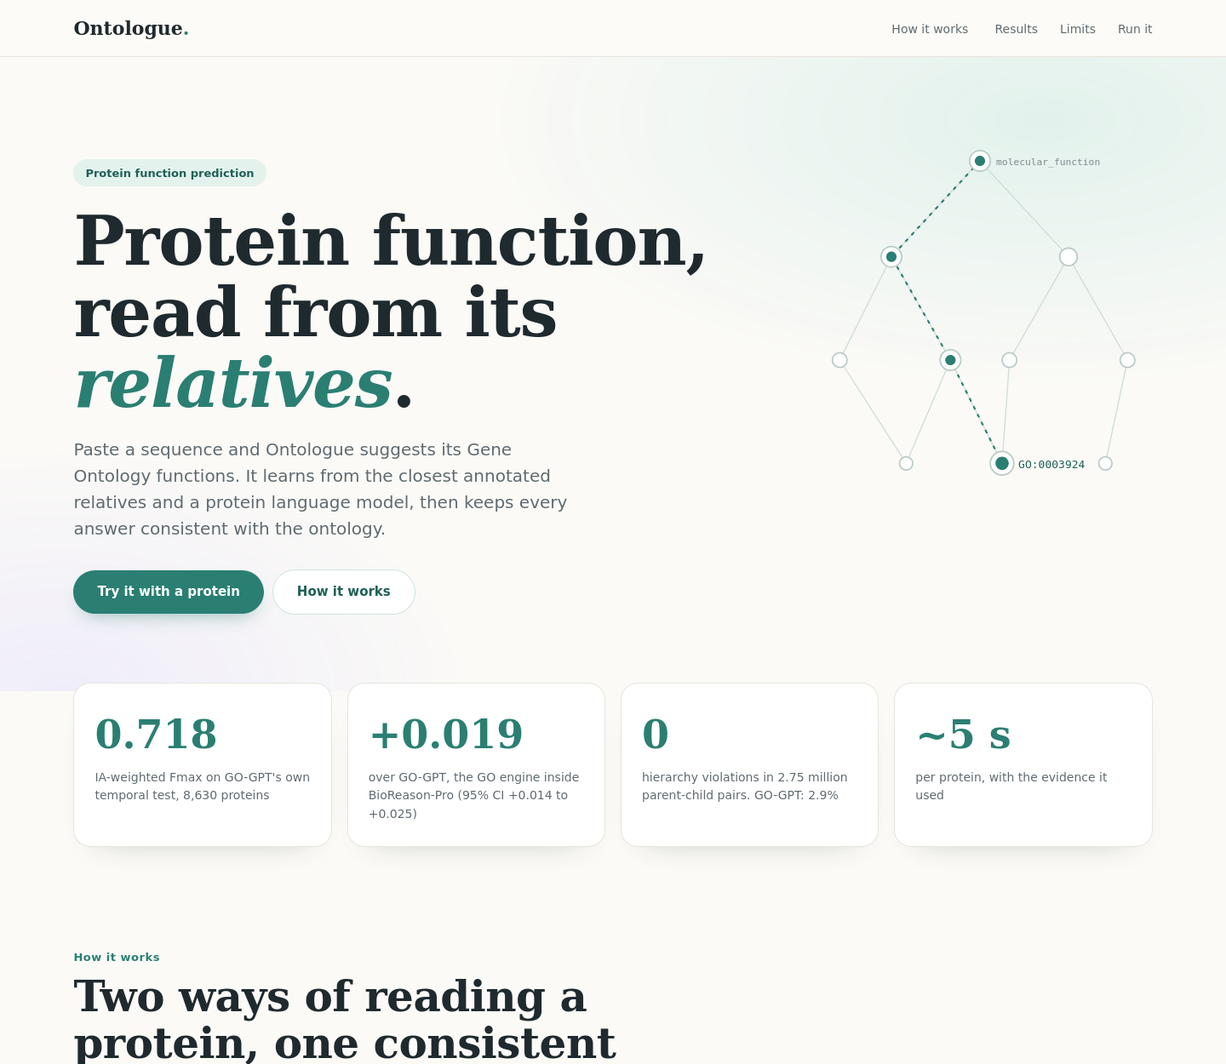
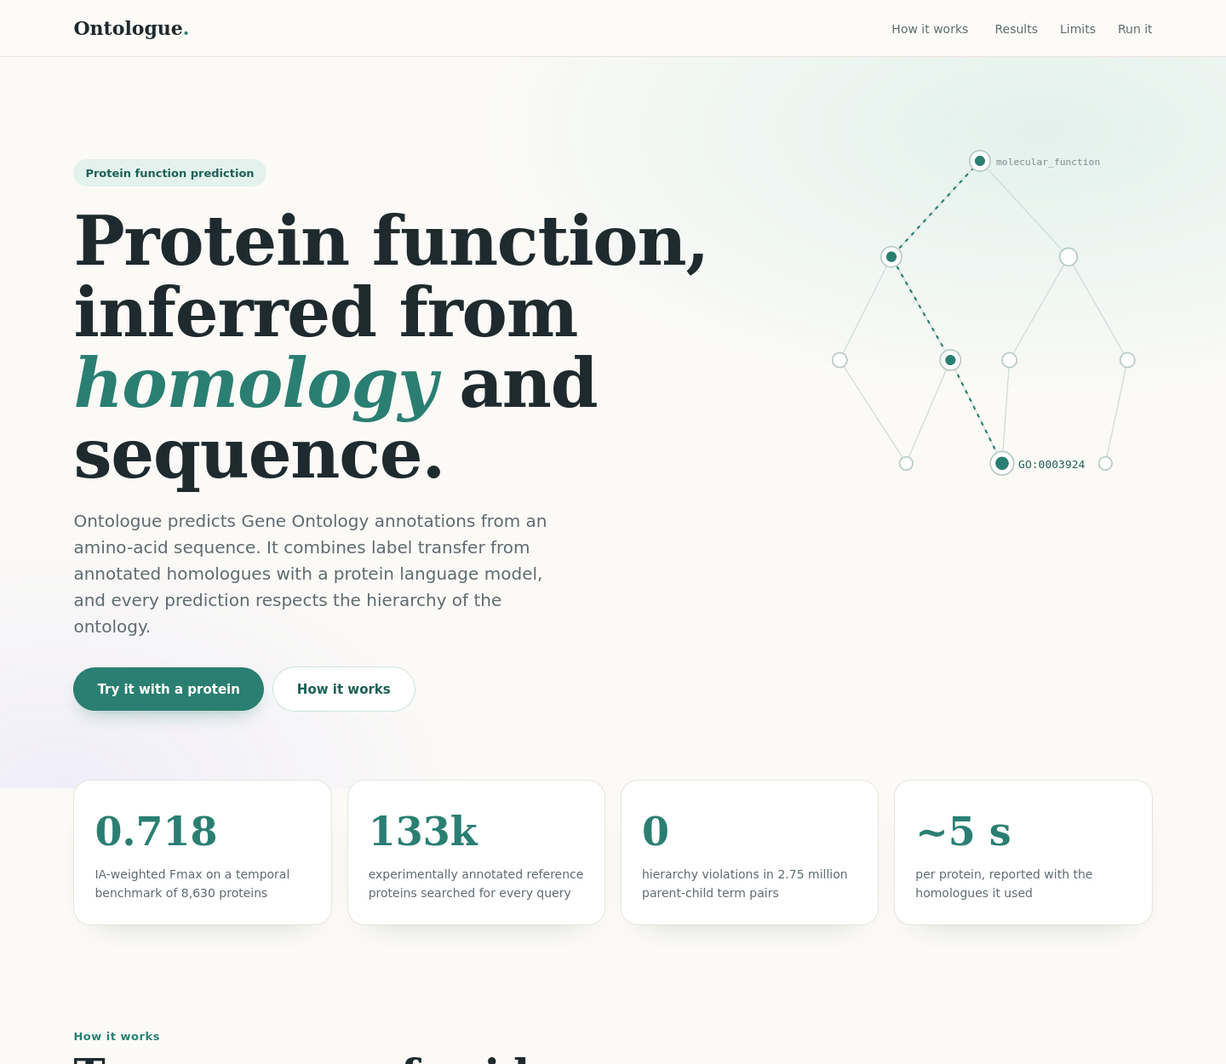
Ontologue: scientific headline, illustrated step-by-step pipeline with plain-English explanations, GO-GPT only in comparisons, no footer

diff --git a/src/cafa6/webapp.py b/src/cafa6/webapp.py
@@ -138,6 +138,37 @@ margin-right:8px}.bar span{display:block;height:9px;border-radius:99px;backgroun
 details summary{cursor:pointer;font-size:13px;color:var(--teal-d)}.dl{font-weight:600}
 @media (max-width:900px){.stats{grid-template-columns:repeat(2,1fr)}.cards,.versus{grid-template-columns:1fr}
 .hero .helix{opacity:.25;width:90vw}.cta.ghost{margin:10px 0 0}}
+.steps{display:flex;flex-direction:column;align-items:stretch;gap:0}
+.step{background:#fff;border:1px solid var(--line);border-radius:22px;padding:24px 26px;display:grid;
+grid-template-columns:260px 1fr;gap:26px;align-items:center;box-shadow:0 20px 44px -36px rgba(31,42,46,.35)}
+.step .art svg{width:100%;height:auto;display:block}.step h3{font-family:var(--serif);font-weight:600;font-size:22px;
+margin:4px 0 8px}.step p{margin:0 0 8px;color:var(--muted);font-size:15px}.step p.tech{font-size:12.5px;color:#7d8a8e;
+border-top:1px dashed var(--line);padding-top:8px;margin-top:10px}
+.stag{display:inline-block;font-size:12px;font-weight:700;color:var(--teal-d);background:var(--mint);padding:3px 10px;
+border-radius:999px}
+.step.input,.step.output{display:block}.step.input .stag,.step.output .stag{margin-bottom:12px}
+.pair{display:grid;grid-template-columns:1fr 1fr;gap:20px}.pair .step{grid-template-columns:1fr;gap:12px}
+.pair .step .art{max-width:280px}
+.pair .step:nth-child(2) .stag{background:var(--lav);color:#4b47a3}
+.step.wide:nth-of-type(1) .stag{background:var(--peach)}
+.seqbox{font-family:ui-monospace,Menlo,Consolas,monospace;font-size:13px;line-height:2.1;word-break:break-all;
+background:#fafaf8;border:1px solid var(--line);border-radius:14px;padding:12px 14px}
+.seqhdr{display:block;color:#7d8a8e;font-size:12px;margin-bottom:2px}.more{color:#7d8a8e;margin-left:6px}
+i.aa{font-style:normal;display:inline-block;width:1.3em;text-align:center;border-radius:5px;margin:0 1px}
+i.aa.h{background:#e4f2ee;color:#1f6156}i.aa.c{background:#fcefe5;color:#a2582a}i.aa.p{background:#ecebf8;color:#4b47a3}
+.legend{font-size:12.5px;color:var(--muted);margin:10px 0 0}
+.arrow1{width:2px;height:34px;background:linear-gradient(#cfdcd8,#9db3ad);margin:0 auto;position:relative}
+.arrow1:after{content:"";position:absolute;left:-5px;bottom:-2px;border:6px solid transparent;border-top-color:#9db3ad}
+.arrow2{display:grid;grid-template-columns:1fr 1fr;height:34px}.arrow2 span{width:2px;height:34px;margin:0 auto;
+background:linear-gradient(#cfdcd8,#9db3ad)}
+.obars{display:grid;gap:10px;max-width:720px}.obar{display:grid;grid-template-columns:minmax(180px,330px) 1fr 44px;gap:12px;
+align-items:center;font-size:14px}.obar .b{background:#f0eee9;border-radius:99px;height:10px}.obar .b span{display:block;
+height:10px;border-radius:99px}.obar.MF .b span{background:var(--mf)}.obar.BP .b span{background:var(--bp)}
+.obar.CC .b span{background:var(--cc)}.obar .v{font-weight:600;color:var(--ink)}
+i.dot{display:inline-block;width:10px;height:10px;border-radius:50%;vertical-align:middle}i.dot.MF{background:var(--mf)}
+i.dot.BP{background:var(--bp)}i.dot.CC{background:var(--cc)}
+@media (max-width:900px){.step{grid-template-columns:1fr}.pair{grid-template-columns:1fr}.arrow2{grid-template-columns:1fr}
+.arrow2 span:last-child{display:none}}
 """
 
 
@@ -150,15 +181,10 @@ def predictor() -> Predictor:
 NAV = f"""<nav><a class="logo" href="/">{BRAND}<b>.</b></a><div class="links"><a href="/#how">How it works</a>
 <a href="/#results">Results</a><a href="/#limits">Limits</a><a href="/#run">Run it</a></div></nav>"""
 
-FOOTER = f"""<footer><b>{BRAND}</b> is the serving name of the HiGO-R2 research pipeline: frozen ESM2-35M with
-per-term attention (HiGO head), identity-sharpened kNN label transfer over 133,054 GO-GPT train + val references,
-a per-term refiner fitted on a temporal validation set, and GO true-path closure. Benchmark: GO-GPT temporal test,
-8,630 proteins, IA-weighted Fmax, CAFA evaluator (prop=max). Research software; check predictions against the nearest
-references shown with every result. Built on ESM2 (MIT), UniProt and Gene Ontology data (CC BY 4.0), DIAMOND (GPL-3.0).
-</footer>"""
+FOOTER = ""
 
 
-def page(body: str, title: str = f"{BRAND} | protein function, read from its relatives") -> HTMLResponse:
+def page(body: str, title: str = f"{BRAND} | protein function from homology and sequence") -> HTMLResponse:
     return HTMLResponse(f"""<!doctype html><html lang="en"><head><meta charset="utf-8"><title>{html.escape(title)}</title>
 <meta name="viewport" content="width=device-width,initial-scale=1"><style>{CSS}</style></head><body>
 {NAV}<main class="res">{body}</main>{FOOTER}</body></html>""")
@@ -183,7 +209,7 @@ onclick="document.getElementById('fasta').value='{example_js}'">Load an example 
 placeholder="other taxon id" aria-label="other NCBI taxon id">
 <button class="cta" type="submit">Predict functions</button></div>
 <p class="hint">About 5 seconds per protein, most of it the search over 133,054 annotated references. Every result
-lists the relatives it was read from.</p></form></div>"""
+lists the homologues it drew on.</p></form></div>"""
 
 
 HERO_ART = """<svg class="helix" viewBox="0 0 600 600" aria-hidden="true">
@@ -202,104 +228,165 @@ M260 330 L200 470 M260 330 L330 470 M340 330 L330 470 M500 330 L470 470 M110 330
 <text x="322" y="66" fill="#7d8a8e" font-size="13" font-family="ui-monospace,Menlo,monospace">molecular_function</text>
 </svg>"""
 
-PIPELINE_SVG = """<svg viewBox="0 0 1260 380" role="img" aria-labelledby="dgT dgD">
-<title id="dgT">Ontologue pipeline</title>
-<desc id="dgD">A protein sequence goes two ways: a DIAMOND search reads the GO terms of its closest annotated relatives
-(sharpened kNN), and a protein language model with one attention query per GO term reads the residues. A per-term
-refiner fitted on future-dated annotations combines both, the Gene Ontology closure makes parents score at least as
-high as children, and the output is scored GO terms for molecular function, biological process and cellular
-component.</desc>
-<defs><marker id="ar" viewBox="0 0 10 10" refX="9" refY="5" markerWidth="7" markerHeight="7" orient="auto">
-<path d="M0 0 L10 5 L0 10z" fill="#7d8a8e"/></marker></defs>
-<g fill="none" stroke="#9db3ad" stroke-width="2" marker-end="url(#ar)">
-<path class="flow" d="M170 190 C198 190 198 95 223 95"/><path class="flow" d="M170 190 C198 190 198 285 223 285"/>
-<path class="flow" d="M515 95 C542 95 542 190 568 190"/><path class="flow" d="M515 285 C542 285 542 190 568 190"/>
-<path class="flow" d="M770 190 L818 190"/><path class="flow" d="M1030 190 L1078 190"/></g>
-<g font-family="system-ui,Segoe UI,Roboto,Arial,sans-serif">
-<rect x="20" y="140" width="150" height="100" rx="20" fill="#ffffff" stroke="#dcd8cf" stroke-width="1.5"/>
-<text x="40" y="176" fill="#2a7f72" font-size="12" font-weight="700" letter-spacing="1.5">INPUT</text>
-<text x="40" y="202" fill="#1f2a2e" font-size="17" font-weight="800">Sequence</text>
-<text x="40" y="224" fill="#5f6b70" font-size="13">+ organism</text>
-<rect x="225" y="40" width="290" height="110" rx="20" fill="#e4f2ee"/>
-<text x="245" y="70" fill="#1f6156" font-size="12" font-weight="700" letter-spacing="1.5">01 RELATIVES</text>
-<text x="245" y="98" fill="#1f2a2e" font-size="17" font-weight="800">Sharpened kNN</text>
-<text x="245" y="120" fill="#5f6b70" font-size="13">DIAMOND over 133k annotated proteins</text>
-<text x="245" y="138" fill="#5f6b70" font-size="13">closest relatives weigh the most</text>
-<rect x="225" y="230" width="290" height="110" rx="20" fill="#ecebf8"/>
-<text x="245" y="260" fill="#4b47a3" font-size="12" font-weight="700" letter-spacing="1.5">02 LANGUAGE</text>
-<text x="245" y="288" fill="#1f2a2e" font-size="17" font-weight="800">ESM2 + HiGO head</text>
-<text x="245" y="310" fill="#5f6b70" font-size="13">7,901 GO-term queries attend</text>
-<text x="245" y="328" fill="#5f6b70" font-size="13">over every residue</text>
-<rect x="570" y="135" width="200" height="110" rx="20" fill="#fcefe5"/>
-<text x="590" y="165" fill="#a2582a" font-size="12" font-weight="700" letter-spacing="1.5">03 REFINER</text>
-<text x="590" y="193" fill="#1f2a2e" font-size="17" font-weight="800">Per-term fusion</text>
-<text x="590" y="215" fill="#5f6b70" font-size="13">fitted only on</text>
-<text x="590" y="233" fill="#5f6b70" font-size="13">future-dated labels</text>
-<rect x="820" y="135" width="210" height="110" rx="20" fill="#eef4f8"/>
-<text x="840" y="165" fill="#3b6a8a" font-size="12" font-weight="700" letter-spacing="1.5">04 ONTOLOGY</text>
-<text x="840" y="193" fill="#1f2a2e" font-size="17" font-weight="800">True-path closure</text>
-<text x="840" y="215" fill="#5f6b70" font-size="13">a parent never scores</text>
-<text x="840" y="233" fill="#5f6b70" font-size="13">below its child</text>
-<rect x="1080" y="120" width="170" height="140" rx="20" fill="#2a7f72"/>
-<text x="1098" y="152" fill="#cfeee6" font-size="12" font-weight="700" letter-spacing="1.5">OUTPUT</text>
-<text x="1098" y="180" fill="#ffffff" font-size="17" font-weight="900">GO terms</text>
-<circle cx="1104" cy="203" r="6" fill="#a9bdf3"/><text x="1116" y="208" fill="#ffffff" font-size="13">Molecular function</text>
-<circle cx="1104" cy="225" r="6" fill="#a8e6d3"/><text x="1116" y="230" fill="#ffffff" font-size="13">Biological process</text>
-<circle cx="1104" cy="247" r="6" fill="#f7c6a2"/><text x="1116" y="252" fill="#ffffff" font-size="13">Cellular component</text>
-</g></svg>"""
+
+
+SEQ_DEMO = "MTEYKLVVVGAGGVGKSALTIQLIQNHFVDEYDPTIEDSYRKQVVIDGETCLLDILDTAGQEEYSAMRDQYMRTGEGFLCVFAINNTKSFEDIHQYRE"
+
+
+def seq_chips(seq: str) -> str:
+    """Residues as coloured chips: hydrophobic, charged, polar/other."""
+    cls = {**{a: "h" for a in "AVILMFWC"}, **{a: "c" for a in "DEKRH"}}
+    return "".join(f'<i class="aa {cls.get(a, "p")}">{a}</i>' for a in seq)
+
+
+DOODLE_RELATIVES = """<svg viewBox="0 0 260 170" aria-hidden="true">
+<line x1="130" y1="88" x2="46" y2="40" stroke="#2a7f72" stroke-width="7" stroke-linecap="round"/>
+<line x1="130" y1="88" x2="222" y2="52" stroke="#2a7f72" stroke-width="4" stroke-linecap="round" opacity=".75"/>
+<line x1="130" y1="88" x2="200" y2="150" stroke="#2a7f72" stroke-width="1.6" stroke-linecap="round" opacity=".5"
+stroke-dasharray="4 4"/>
+<circle cx="130" cy="88" r="22" fill="#2a7f72"/><text x="130" y="92" text-anchor="middle" fill="#fff" font-size="11"
+font-weight="700">query</text>
+<circle cx="46" cy="40" r="17" fill="#e4f2ee" stroke="#2a7f72" stroke-width="2"/>
+<text x="46" y="44" text-anchor="middle" font-size="10" font-weight="700" fill="#1f6156">99%</text>
+<circle cx="222" cy="52" r="15" fill="#e4f2ee" stroke="#2a7f72" stroke-width="1.5"/>
+<text x="222" y="56" text-anchor="middle" font-size="10" font-weight="700" fill="#1f6156">78%</text>
+<circle cx="200" cy="150" r="12" fill="#f3f1ec" stroke="#b9cbc5" stroke-width="1.5"/>
+<text x="200" y="154" text-anchor="middle" font-size="9" fill="#5f6b70">41%</text>
+<text x="18" y="76" font-size="10" fill="#5f6b70">strong vote</text><text x="168" y="98" font-size="10"
+fill="#5f6b70">weaker</text><text x="132" y="160" font-size="10" fill="#5f6b70">faint</text></svg>"""
+
+DOODLE_LANGUAGE = """<svg viewBox="0 0 260 170" aria-hidden="true">
+<path d="M66 34 L40 118 L92 118 Z" fill="#ecebf8"/><path d="M186 34 L160 118 L212 118 Z" fill="#fcefe5"/>
+<rect x="28" y="16" width="76" height="22" rx="11" fill="#ecebf8"/><text x="66" y="31" text-anchor="middle"
+font-size="10" font-weight="700" fill="#4b47a3">GTP binding</text>
+<rect x="142" y="16" width="88" height="22" rx="11" fill="#fcefe5"/><text x="186" y="31" text-anchor="middle"
+font-size="10" font-weight="700" fill="#a2582a">membrane</text>
+<g font-size="10" font-weight="700" text-anchor="middle">
+<circle cx="22" cy="130" r="9" fill="#f3f1ec"/><circle cx="44" cy="130" r="9" fill="#a9a5e6"/>
+<circle cx="66" cy="130" r="9" fill="#a9a5e6"/><circle cx="88" cy="130" r="9" fill="#f3f1ec"/>
+<circle cx="110" cy="130" r="9" fill="#f3f1ec"/><circle cx="132" cy="130" r="9" fill="#f3f1ec"/>
+<circle cx="154" cy="130" r="9" fill="#f3f1ec"/><circle cx="176" cy="130" r="9" fill="#f7c6a2"/>
+<circle cx="198" cy="130" r="9" fill="#f7c6a2"/><circle cx="220" cy="130" r="9" fill="#f3f1ec"/>
+<circle cx="242" cy="130" r="9" fill="#f3f1ec"/></g>
+<text x="130" y="160" text-anchor="middle" font-size="10" fill="#5f6b70">each function looks at the residues it needs</text>
+</svg>"""
+
+DOODLE_FUSION = """<svg viewBox="0 0 260 170" aria-hidden="true">
+<path d="M130 40 L130 140" stroke="#9db3ad" stroke-width="3"/><path d="M104 146 L156 146" stroke="#9db3ad"
+stroke-width="5" stroke-linecap="round"/>
+<path d="M40 58 L220 38" stroke="#5f6b70" stroke-width="3" stroke-linecap="round"/>
+<circle cx="130" cy="48" r="6" fill="#5f6b70"/>
+<path d="M40 58 L22 96 L58 96 Z" fill="none" stroke="#9db3ad" stroke-width="1.5"/>
+<path d="M220 38 L202 76 L238 76 Z" fill="none" stroke="#9db3ad" stroke-width="1.5"/>
+<ellipse cx="40" cy="98" rx="26" ry="6" fill="#e4f2ee"/><ellipse cx="220" cy="78" rx="26" ry="6" fill="#ecebf8"/>
+<circle cx="40" cy="86" r="11" fill="#2a7f72"/><circle cx="220" cy="68" r="8" fill="#a9a5e6"/>
+<text x="40" y="122" text-anchor="middle" font-size="10" font-weight="700" fill="#1f6156">homologues</text>
+<text x="220" y="102" text-anchor="middle" font-size="10" font-weight="700" fill="#4b47a3">sequence</text>
+<text x="130" y="166" text-anchor="middle" font-size="10" fill="#5f6b70">the balance shifts with similarity</text>
+</svg>"""
+
+DOODLE_CLOSURE = """<svg viewBox="0 0 260 170" aria-hidden="true">
+<g font-size="11" font-weight="600">
+<rect x="58" y="10" width="144" height="30" rx="15" fill="#eef4f8"/><text x="130" y="30" text-anchor="middle"
+fill="#3b6a8a">catalytic activity 0.87</text>
+<rect x="50" y="68" width="160" height="30" rx="15" fill="#eef4f8"/><text x="130" y="88" text-anchor="middle"
+fill="#3b6a8a">hydrolase activity 0.87</text>
+<rect x="62" y="126" width="136" height="30" rx="15" fill="#2a7f72"/><text x="130" y="146" text-anchor="middle"
+fill="#fff">GTPase activity 0.80</text></g>
+<g stroke="#9db3ad" stroke-width="2" fill="none"><path d="M130 124 L130 102"/><path d="M124 108 L130 100 L136 108"/>
+<path d="M130 66 L130 44"/><path d="M124 50 L130 42 L136 50"/></g>
+<text x="222" y="92" font-size="10" fill="#5f6b70">implies</text><text x="222" y="40" font-size="10"
+fill="#5f6b70">implies</text></svg>"""
+
+
+def steps_html() -> str:
+    def bar(term, asp, v):
+        return (f'<div class="obar {asp}"><span class="t">{term}</span><span class="b"><span style="width:{v * 100:.0f}%">'
+                f'</span></span><span class="v">{v:.2f}</span></div>')
+    return f"""
+<div class="steps">
+<div class="step input"><div class="stag">Input</div>
+<div class="seqbox"><span class="seqhdr">&gt;example &nbsp;Homo sapiens (taxon 9606)</span>{seq_chips(SEQ_DEMO)}<span
+class="more">&hellip; 166 residues</span></div>
+<p class="legend"><i class="aa h">A</i> hydrophobic &nbsp; <i class="aa c">K</i> charged &nbsp; <i class="aa p">S</i>
+polar or other</p></div>
+<div class="arrow2"><span></span><span></span></div>
+<div class="pair">
+<div class="step"><div class="art">{DOODLE_RELATIVES}</div><div class="txt"><div class="stag">Step 1a</div>
+<h3>Look up related proteins</h3><p>We search 133,054 proteins whose functions are already known for ones with a
+similar sequence, and borrow their annotations. A near-identical protein gets a strong vote; a distant one barely
+counts.</p>
+<p class="tech">Identity-sharpened k-nearest-neighbour label transfer (DIAMOND, top 50 hits)</p></div></div>
+<div class="step"><div class="art">{DOODLE_LANGUAGE}</div><div class="txt"><div class="stag">Step 1b</div>
+<h3>Read the sequence itself</h3><p>A protein language model, trained on millions of natural sequences, reads every
+residue. Each of 7,901 functions then focuses on the stretch of residues that tells it the most.</p>
+<p class="tech">Frozen ESM2-35M encoder with one attention query per GO term (HiGO head)</p></div></div>
+</div>
+<div class="arrow1"></div>
+<div class="step wide"><div class="art">{DOODLE_FUSION}</div><div class="txt"><div class="stag">Step 2</div>
+<h3>Weigh the two kinds of evidence</h3><p>For each function separately, a small model decides how far to trust the
+related proteins and how far to trust the sequence reading. Close matches tip the balance toward borrowing; with no
+close match the sequence reading matters more. It was calibrated on annotations added after the training data was
+collected, so it learns how evidence holds up over time.</p>
+<p class="tech">Per-term nonlinear fusion fitted on a temporal validation set</p></div></div>
+<div class="arrow1"></div>
+<div class="step wide"><div class="art">{DOODLE_CLOSURE}</div><div class="txt"><div class="stag">Step 3</div>
+<h3>Keep the answer consistent</h3><p>Gene Ontology terms are nested: a GTPase is a kind of hydrolase, which is a kind
+of catalytic activity. Whenever a specific function is predicted, every broader function above it is scored at least
+as high, so the result never contradicts itself.</p>
+<p class="tech">True-path rule: max-propagation over is_a and part_of relations</p></div></div>
+<div class="arrow1"></div>
+<div class="step output"><div class="stag">Output</div><h3>Scored functions in all three ontologies</h3>
+<div class="obars">{bar("GTPase activity", "MF", 0.80)}{bar("small GTPase mediated signal transduction", "BP", 0.75)}
+{bar("plasma membrane", "CC", 0.63)}</div>
+<p class="legend"><i class="dot MF"></i> molecular function &nbsp; <i class="dot BP"></i> biological process &nbsp;
+<i class="dot CC"></i> cellular component. Values are the model's own scores for the example above.</p></div>
+</div>"""
 
 
 def landing_html() -> str:
     return f"""
 <header class="hero">{HERO_ART}
 <div class="kicker">Protein function prediction</div>
-<h1>Protein function, read from its <em>relatives</em>.</h1>
-<p class="lede">Paste a sequence and {BRAND} suggests its Gene Ontology functions. It learns from the closest
-annotated relatives and a protein language model, then keeps every answer consistent with the ontology.</p>
+<h1>Protein function, inferred from <em>homology</em> and sequence.</h1>
+<p class="lede">{BRAND} predicts Gene Ontology annotations from an amino-acid sequence. It combines label transfer
+from annotated homologues with a protein language model, and every prediction respects the hierarchy of the
+ontology.</p>
 <a class="cta" href="#run">Try it with a protein</a><a class="cta ghost" href="#how">How it works</a>
 </header>
 <div class="stats">
-<div><b>0.718</b><span>IA-weighted Fmax on GO-GPT's own temporal test, 8,630 proteins</span></div>
-<div><b>+0.019</b><span>over GO-GPT, the GO engine inside BioReason-Pro (95% CI +0.014 to +0.025)</span></div>
-<div><b>0</b><span>hierarchy violations in 2.75 million parent-child pairs. GO-GPT: 2.9%</span></div>
-<div><b>~5 s</b><span>per protein, with the evidence it used</span></div>
+<div><b>0.718</b><span>IA-weighted Fmax on a temporal benchmark of 8,630 proteins</span></div>
+<div><b>133k</b><span>experimentally annotated reference proteins searched for every query</span></div>
+<div><b>0</b><span>hierarchy violations in 2.75 million parent-child term pairs</span></div>
+<div><b>~5 s</b><span>per protein, reported with the homologues it used</span></div>
 </div>
 <section class="block" id="how"><div class="eyebrow">How it works</div>
-<h2>Two ways of reading a protein, one consistent answer</h2>
-<p class="sub">Most proteins have relatives that someone has already studied. {BRAND} finds them, trusts the closest
-ones most, and lets a language model fill the gaps, then keeps the answer consistent with the Gene Ontology.</p>
-<div class="diagram">{PIPELINE_SVG}</div></section>
-<section class="block" style="padding-top:0"><div class="cards">
-<article><div><div class="n">1</div><h3>Closer relatives count for more</h3>
-<p>A 99% identical relative is worth far more than a 60% one. Identity-sharpened label transfer weights each
-neighbour by how close it is, instead of counting them all alike.</p></div></article>
-<article><div><div class="n">2</div><h3>Each function looks at the sequence</h3>
-<p>Each of 7,901 GO terms has its own learned query that attends over the residues of a frozen ESM2 model, so
-every prediction comes with the residues behind it.</p></div></article>
-<article><div><div class="n">3</div><h3>Always consistent with the ontology</h3>
-<p>If a protein binds GTP, it binds a nucleotide. Every output is closed under the true-path rule, so a parent
-term never scores below its child.</p></div></article>
-</div></section>
+<h2>Two sources of evidence, one consistent annotation</h2>
+<p class="sub">Most proteins have homologues whose functions have been characterised. {BRAND} finds them, weights
+the closest most heavily, uses a protein language model where homology is weak, and keeps the result consistent
+with the Gene Ontology.</p>
+{steps_html()}</section>
+
 <section class="block soft" id="results"><div class="eyebrow">Results</div>
 <h2>Tested on annotations that came later</h2>
 <p class="sub">Every choice was fixed on a temporal validation set before the test set was opened. The test set holds
 annotations that appeared after the training cutoff, so the model is graded on functions nobody had recorded yet.</p>
 <div class="versus"><table class="vtable">
-<tr><th>GO-GPT temporal test</th><th>IA-weighted Fmax</th><th>S-min (lower is better)</th></tr>
+<tr><th>Temporal benchmark, 8,630 proteins</th><th>IA-weighted Fmax</th><th>S-min (lower is better)</th></tr>
 <tr class="hl"><td class="us">{BRAND}</td><td class="us">0.718</td><td class="us">7.56</td></tr>
 <tr><td>GO-GPT, ten samples</td><td>0.698</td><td>8.17</td></tr>
 <tr><td>GO-GPT, released beam</td><td>0.687</td><td>9.20</td></tr></table>
 <div class="limits"><h3>Checked carefully</h3>
-<p>51 of 56 paired comparisons against GO-GPT stay significant after Holm-Bonferroni correction, across Fmax,
-S-min and AUPR in all three ontologies. None of the significant differences favours GO-GPT.</p>
+<p>Differences were tested with paired protein-level resampling and corrected for multiple comparisons
+(Holm-Bonferroni) across Fmax, S-min and AUPR in all three ontologies.</p>
 <p>Biggest gains: <b>biological process +0.028</b>, molecular function +0.018, cellular component +0.012
 (IA-weighted Fmax).</p></div></div></section>
 <section class="block" id="limits"><div class="eyebrow">Know its limits</div>
-<h2>Most reliable when relatives exist</h2>
-<div class="versus"><p class="sub" style="margin:0">{BRAND}'s edge comes from reading relatives well. For a protein
-with no detectable relative, the language-model branch carries the prediction alone, and there GO-GPT is still ahead.
-Each result shows the identity of the closest reference, so you know which case you are in.</p>
-<table class="vtable"><tr><th>closest relative</th><th>{BRAND}</th><th>GO-GPT</th></tr>
+<h2>Most reliable when homologues exist</h2>
+<div class="versus"><p class="sub" style="margin:0">Accuracy depends on how close the nearest annotated homologue is.
+For a protein with no detectable homologue the language-model branch carries the prediction alone, and accuracy is
+markedly lower. Each result reports the identity of the closest reference, so you know which case applies.</p>
+<table class="vtable"><tr><th>identity of closest homologue</th><th>{BRAND}</th><th>GO-GPT (ten samples)</th></tr>
 <tr><td>95% identity and above</td><td class="us">0.86 to 0.88</td><td>0.84</td></tr>
 <tr><td>30 to 50%</td><td class="us">0.48</td><td>0.45</td></tr>
 <tr><td>below 30%</td><td>0.45</td><td class="us">0.46</td></tr>
@@ -307,12 +394,12 @@ Each result shows the identity of the closest reference, so you know which case 
 <section class="block run" id="run"><div class="eyebrow">Run it</div>
 <h2>Try it with your protein</h2>
 <p class="sub">Up to 20 sequences at a time. Results show scored GO terms by ontology, links to QuickGO, the nearest
-annotated relatives, and a TSV download.</p>{form_html()}</section>"""
+annotated homologues, and a TSV download.</p>{form_html()}</section>"""
 
 
 def landing_page() -> HTMLResponse:
     return HTMLResponse(f"""<!doctype html><html lang="en"><head><meta charset="utf-8">
-<title>{BRAND} | protein function, read from its relatives</title>
+<title>{BRAND} | protein function from homology and sequence</title>
 <meta name="viewport" content="width=device-width,initial-scale=1"><style>{CSS}</style></head><body>
 {NAV}{landing_html()}{FOOTER}</body></html>""")
 
@@ -349,7 +436,7 @@ def results_html(results: list[dict], seconds: float, key: str) -> str:
     out = [f'<div class="card"><b>{len(results)} protein(s)</b> predicted in {seconds:.1f} s. '
            f'<a class="dl" href="/download/{key}">Download all scores (TSV)</a> &nbsp; <a href="/#run">New query</a></div>']
     for r in results:
-        org = html.escape(r["organism"] or "organism not in the GO-GPT data")
+        org = html.escape(r["organism"] or "organism not in the reference data")
         tx = r["taxon"] if r["taxon"] is not None else "not given"
         parts = [f'<div class="card"><h2>{html.escape(r["id"])}</h2><p class="muted">{r["length"]} residues; taxon '
                  f'{tx} ({org}); best reference identity {r["max_identity"]:.1f}% (bin {r["identity_bin"]}); '
@@ -370,7 +457,7 @@ def results_html(results: list[dict], seconds: float, key: str) -> str:
                 parts.append(f'<details><summary>next {len(rest)} terms below the threshold</summary>'
                              f'<table class="{asp}"><tr><th>GO term</th><th>name</th><th>score</th></tr>'
                              f'{score_rows(rest)}</table></details>')
-        parts.append("<h3>Nearest references (DIAMOND, GO-GPT train + val)</h3>")
+        parts.append("<h3>Nearest annotated homologues (DIAMOND)</h3>")
         if r["nearest"]:
             parts.append("<table><tr><th>reference</th><th>organism</th><th>set</th><th>identity %</th>"
                          "<th>query coverage %</th><th>bitscore</th><th>e-value</th></tr>")
